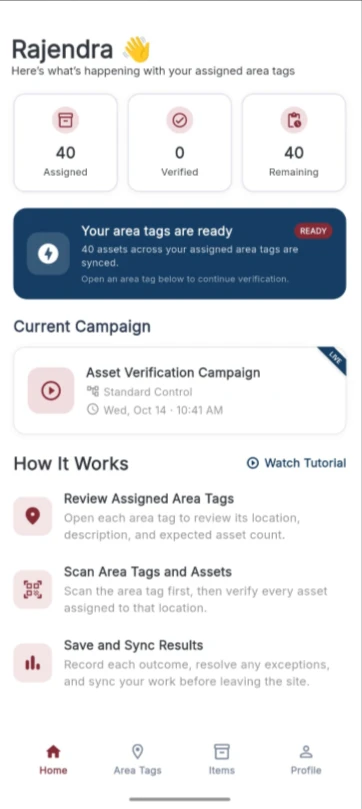
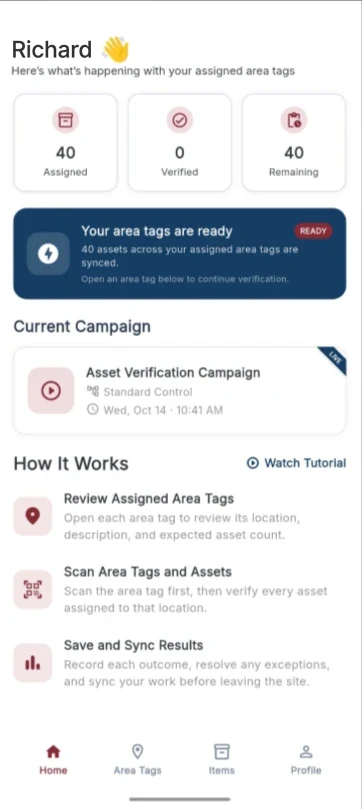
new section added

Changed region(s): [[0.0304, 0.0309, 0.4254, 0.0927]]

diff --git a/client/src/pages/HomePage.jsx b/client/src/pages/HomePage.jsx
@@ -29,6 +29,36 @@ const issues = [
   )],
 ];
 
+const blueprint = [
+  ["Enterprise Asset Register", "Centralised asset master with categories, tags, serial numbers, locations, custodians, cost centres, book values, attachments and lifecycle history.", (
+    <>
+      <ellipse cx="12" cy="5.5" rx="7.5" ry="3" />
+      <path d="M4.5 5.5v13c0 1.7 3.4 3 7.5 3s7.5-1.3 7.5-3v-13M4.5 12c0 1.7 3.4 3 7.5 3s7.5-1.3 7.5-3" />
+    </>
+  )],
+  ["Mobile Verification", "Verify assets using smartphone camera, QR, barcode, RFID-ready workflows, GPS, photos, digital signatures, condition checklists and offline sync.", (
+    <>
+      <rect x="6.5" y="2.5" width="11" height="19" rx="2" />
+      <path d="M11 18h2" />
+    </>
+  )],
+  ["Verification Events", "Plan and run structured physical verification events by location, zone, asset class, team, approval rule and audit sample requirement.", (
+    <>
+      <rect x="3.5" y="4.5" width="17" height="16" rx="2" />
+      <path d="M8 2.5v4M16 2.5v4M3.5 10h17M9 15l2 2 4-4" />
+    </>
+  )],
+  ["ERP Reconciliation", "Compare book records against physical findings to identify ghost assets, unrecorded assets, wrong locations, cost centre mismatches and disposal candidates.", (
+    <path d="M7 3.5 3.5 7 7 10.5M3.5 7h13M17 13.5l3.5 3.5-3.5 3.5M20.5 17h-13" />
+  )],
+  ["Audit Evidence Centre", "Every verification is backed by user ID, timestamp, GPS, photo evidence, scan details, approval trail and immutable activity history.", (
+    <path d="M12 3 4 6v6c0 5 3.5 8 8 9 4.5-1 8-4 8-9V6l-8-3ZM9 12l2 2 4-4" />
+  )],
+  ["AI Asset Intelligence", "Detect duplicate records, repeated missing assets, location drift, high-risk custodians, ageing assets, condition deterioration and audit gaps.", (
+    <path d="M10 3.5 11.8 8.2 16.5 10l-4.7 1.8L10 16.5l-1.8-4.7L3.5 10l4.7-1.8L10 3.5ZM18 14v6M15 17h6" />
+  )],
+];
+
 const dimensions = [
   ["Existence", "Is the recorded asset physically present?", (
     <path d="M21 8 12 3 3 8v8l9 5 9-5V8ZM3 8l9 5 9-5M12 13v8" />
@@ -258,11 +288,34 @@ function onTabKeys(event, index, count, select) {
   event.currentTarget.parentElement.children[next]?.focus();
 }
 
+function Blueprint() {
+  return (
+    <section className={`${styles.section} ${styles.tint} ${styles.blueprint}`} id="blueprint" aria-labelledby="blueprint-title">
+      <div className={site.container}>
+        <div className={styles.blueprintHead}>
+          <Badge>Platform Blueprint</Badge>
+          <Lines id="blueprint-title" lines={["A complete asset truth layer", <em key="a">between physical assets and enterprise systems.</em>]} />
+          <p className={styles.journeyIntro} data-reveal=""><Brand /> is designed to go beyond asset tracking. It connects the physical reality on the ground with ERP, finance, audit and operations.</p>
+        </div>
+        <div className={styles.blueprintGrid} data-stagger="" data-draw-icons="">
+          {blueprint.map(([title, text, icon]) => (
+            <article key={title} data-tilt="5">
+              <Icon>{icon}</Icon>
+              <h3>{title}</h3>
+              <p>{text}</p>
+            </article>
+          ))}
+        </div>
+      </div>
+    </section>
+  );
+}
+
 function Journey() {
   const [active, setActive] = useState(0);
   const stage = stages[active];
   return (
-    <section className={`${styles.section} ${styles.tint} ${styles.journey}`} id="journey" aria-labelledby="journey-title">
+    <section className={`${styles.section} ${styles.journey}`} id="journey" aria-labelledby="journey-title">
       <div className={site.container}>
         <div className={styles.heading}>
           <div>
@@ -310,7 +363,7 @@ function Controls() {
   const [active, setActive] = useState(0);
   const control = controls[active];
   return (
-    <section className={`${styles.section} ${styles.tint} ${styles.onTint} ${styles.recolor}`} id="controls" aria-labelledby="controls-title">
+    <section className={`${styles.section} ${styles.recolor}`} id="controls" aria-labelledby="controls-title">
       <div className={site.container}>
         <div className={styles.heading}>
           <div>
@@ -367,7 +420,7 @@ function Delivery() {
   const [active, setActive] = useState(0);
   const model = models[active];
   return (
-    <section className={`${styles.section} ${styles.tint} ${styles.recolor} ${styles.delivery}`} id="delivery" aria-labelledby="delivery-title">
+    <section className={`${styles.section} ${styles.recolor} ${styles.delivery}`} id="delivery" aria-labelledby="delivery-title">
       <div className={site.container}>
         <div className={styles.heading}>
           <div>
@@ -513,7 +566,7 @@ function RtLaptop() {
 
 function RealTimeControl() {
   return (
-    <section className={`${styles.section} ${styles.tint} ${styles.rtSection}`} id="control-centre" aria-labelledby="rt-title">
+    <section className={`${styles.section} ${styles.rtSection}`} id="control-centre" aria-labelledby="rt-title">
       <div className={site.container}>
         <div className={styles.rtHead} data-reveal="">
           <Lines id="rt-title" lines={["Mobile Evidence + Real-Time Control"]} />
@@ -545,7 +598,8 @@ function RealTimeControl() {
 
 // The hero alternates between its two messages; both stay stacked in one grid
 // cell so the buttons below never jump when the text changes.
-const HERO_INTERVAL = 4000;
+const HERO_INTERVAL = 5000;
+const HERO_SLIDES = 3;
 
 function HeroHeadings() {
   // -1 until the preloader lifts, so the first heading rises into view.
@@ -558,7 +612,7 @@ function HeroHeadings() {
       if (cancelled) return;
       setSlides({ active: 0, leaving: -1 });
       timer = window.setInterval(() => {
-        setSlides(({ active: current }) => ({ active: (current + 1) % 2, leaving: current }));
+        setSlides(({ active: current }) => ({ active: (current + 1) % HERO_SLIDES, leaving: current }));
       }, HERO_INTERVAL);
     });
     return () => {
@@ -583,6 +637,10 @@ function HeroHeadings() {
         <HeroLines className={styles.heroTitle} lines={["Every Asset.", "Everywhere.", <em key="a">One Clear View.</em>]} />
         <p className={`${styles.heroSubtitle} ${styles.heroFade}`}>Your Central, Customisable Source of Truth.</p>
         <p className={`${styles.heroDescription} ${styles.heroFade}`} style={{ "--delay": ".12s" }}>Bring asset tracking, automated inspections and compliance evidence together in one platform—for complete operational accountability, without chasing spreadsheets.</p>
+      </div>
+      <div className={slide(2)} aria-hidden={active !== 2}>
+        <HeroLines className={styles.heroTitle} lines={["Every asset verified.", "Every movement tracked.", <em key="a">Every record audit-ready.</em>]} />
+        <p className={`${styles.heroDescription} ${styles.heroFade}`}><Brand /> gives enterprises a mobile-first platform to verify physical assets, capture evidence, reconcile with ERP and create a trusted asset truth layer across every location.</p>
       </div>
     </div>
   );
@@ -637,8 +695,10 @@ function HomePage() {
         </div>
       </section>
 
+      <Blueprint />
+
       {/* 01: presentation visuals 02 / 02A */}
-      <section className={`${styles.section} ${styles.tint} ${styles.reality}`} id="reality" aria-labelledby="reality-title">
+      <section className={`${styles.section} ${styles.reality}`} id="reality" aria-labelledby="reality-title">
         <div className={`${site.container} ${styles.split} ${styles.copyFirst}`}>
           <Slide name="reality-gap" className={styles.gapArt} alt="An asset register alongside a workplace with a missing asset and damaged equipment">
             <div className={styles.gapLabel}><span>Book Record</span><b aria-hidden="true">≠</b><span>Physical Reality</span></div>
@@ -664,7 +724,7 @@ function HomePage() {
       </section>
 
       {/* 02: presentation visual 03 */}
-      <section className={`${styles.section} ${styles.verifies}`} id="platform" aria-labelledby="platform-title">
+      <section className={`${styles.section} ${styles.tint} ${styles.verifies}`} id="platform" aria-labelledby="platform-title">
         <div className={site.container}>
           <div className={styles.heading}>
             <div>
@@ -693,7 +753,7 @@ function HomePage() {
       <Journey />
 
       {/* 04: presentation visual 05 */}
-      <section className={`${styles.section} ${styles.mobileSection}`} id="mobile" aria-labelledby="mobile-title">
+      <section className={`${styles.section} ${styles.tint} ${styles.mobileSection}`} id="mobile" aria-labelledby="mobile-title">
         <div className={`${site.container} ${styles.split} ${styles.copyFirst}`}>
           <Slide name="mobile-verification" className={styles.mobileArt} alt="A smartphone captures the asset tag on a point of sale printer">
             <div className={styles.evidenceSlip}>
@@ -720,7 +780,7 @@ function HomePage() {
       <RealTimeControl />
 
       {/* 05: presentation visual 06 */}
-      <section className={`${styles.section} ${styles.exceptions}`} id="exceptions" aria-labelledby="exceptions-title">
+      <section className={`${styles.section} ${styles.tint} ${styles.exceptions}`} id="exceptions" aria-labelledby="exceptions-title">
         <div className={`${site.container} ${styles.split}`}>
           <div className={styles.copy}>
             <p className={styles.sectionBadge} data-reveal="">
@@ -754,7 +814,7 @@ function HomePage() {
       <Controls />
 
       {/* 07: presentation visuals 08 and 14 */}
-      <section className={`${styles.section} ${styles.recolor}`} id="reconciliation" aria-labelledby="reconciliation-title">
+      <section className={`${styles.section} ${styles.tint} ${styles.recolor}`} id="reconciliation" aria-labelledby="reconciliation-title">
         <div className={site.container}>
           <div className={styles.split}>
             <div className={styles.copy}>
@@ -796,7 +856,7 @@ function HomePage() {
       <Delivery />
 
       {/* 09: presentation visual 09 */}
-      <section className={`${styles.section} ${styles.recolor}`} id="pilot" aria-labelledby="pilot-title">
+      <section className={`${styles.section} ${styles.tint} ${styles.recolor}`} id="pilot" aria-labelledby="pilot-title">
         <div className={`${site.container} ${styles.split}`}>
           <div className={styles.copy}>
             <Badge>Focused Pilot</Badge>
@@ -814,7 +874,7 @@ function HomePage() {
       </section>
 
       {/* 10: presentation visual 10 */}
-      <section className={`${styles.section} ${styles.tint} ${styles.onTint} ${styles.recolor}`} id="demo" aria-labelledby="demo-title">
+      <section className={`${styles.section} ${styles.recolor}`} id="demo" aria-labelledby="demo-title">
         <div className={`${site.container} ${styles.split} ${styles.copyFirst}`}>
           <div className={styles.demoVisual}>
             <Slide name="demo" alt="A smartphone and laptop show the connection between a tagged physical asset and its verification record" />
@@ -831,7 +891,7 @@ function HomePage() {
         </div>
       </section>
 
-      <section className={`${styles.section} ${styles.industries}`} id="industries" aria-labelledby="industries-title">
+      <section className={`${styles.section} ${styles.tint} ${styles.industries}`} id="industries" aria-labelledby="industries-title">
         <div className={site.container}>
           <div className={styles.industriesHead}>
             <Badge>Industries We Serve</Badge>

diff --git a/client/src/pages/Home.module.css b/client/src/pages/Home.module.css
@@ -3,6 +3,9 @@
 .page {
   --ink: #182b3c;
   --tint: var(--bg-light);
+  /* Section background, and the colour that stands out against it. */
+  --surface: #fff;
+  --raised: var(--tint);
   background: #fff;
   color: var(--ink);
   line-height: 1.65;
@@ -34,7 +37,7 @@
   isolation: isolate;
   overflow: hidden;
   min-width: 0;
-  background: #fff;
+  background: var(--surface);
   aspect-ratio: 1.12;
 }
 
@@ -53,12 +56,8 @@
   content: "";
   position: absolute;
   inset: 0;
-  background: linear-gradient(90deg, #fff 0%, rgba(255, 255, 255, .82) 8%, rgba(255, 255, 255, 0) 28%);
+  background: linear-gradient(90deg, var(--surface) 0%, color-mix(in srgb, var(--surface) 82%, transparent) 8%, transparent 28%);
   pointer-events: none;
-}
-
-.onTint .slideCrop::after {
-  background: linear-gradient(90deg, var(--tint), rgba(245, 247, 249, .9) 7%, transparent 28%);
 }
 
 /* Hero */
@@ -248,8 +247,8 @@
 }
 
 /* Section scaffolding */
-.section { padding: 96px 0; background: #fff; }
-.tint { background: var(--tint); }
+.section { padding: 96px 0; background: var(--surface); }
+.tint { --surface: var(--tint); --raised: #fff; }
 
 .split {
   display: grid;
@@ -327,8 +326,8 @@
 
 .gapArt::after {
   background:
-    linear-gradient(90deg, #fff 0%, rgba(255, 255, 255, .96) 6%, transparent 30%),
-    linear-gradient(0deg, #fff 0%, transparent 13%);
+    linear-gradient(90deg, var(--surface) 0%, color-mix(in srgb, var(--surface) 96%, transparent) 6%, transparent 30%),
+    linear-gradient(0deg, var(--surface) 0%, transparent 13%);
 }
 
 .gapLabel {
@@ -367,7 +366,6 @@
 
 .verifies .dimensionList article { align-items: center; }
 
-.verifies .evidenceArt { background: #fff; }
 
 /* Verification journey on grey: intro under the heading, icons in the tabs, black text. */
 .page .journey h2,
@@ -397,8 +395,8 @@
   stroke-linejoin: round;
 }
 
-.journey .workflowTabs button[aria-selected="true"] { background: #fff; }
-.journey .workflowTabs button:hover { background: #fff; }
+.journey .workflowTabs button[aria-selected="true"] { background: var(--raised); }
+.journey .workflowTabs button:hover { background: var(--raised); }
 
 .numberedList.iconList li {
   display: flex;
@@ -424,17 +422,6 @@
 .stageIcon { width: 54px; height: 54px; }
 .stageIcon svg { width: 25px; height: 25px; }
 
-.verifies .evidenceArt::after {
-  background:
-    linear-gradient(90deg, #fff 0%, rgba(255, 255, 255, .96) 6%, transparent 26%),
-    linear-gradient(0deg, #fff 0%, transparent 12%);
-}
-
-.reality .gapArt::after {
-  background:
-    linear-gradient(90deg, var(--tint) 0%, rgba(245, 247, 249, .96) 6%, transparent 30%),
-    linear-gradient(0deg, var(--tint) 0%, transparent 13%);
-}
 
 /* Section label set in an outlined pill. */
 .sectionBadge {
@@ -474,13 +461,13 @@
 .dimensionList h3 { font-size: 22px; color: var(--primary); margin-bottom: 7px; }
 .dimensionList p { color: var(--muted); font-size: 14px; }
 
-.evidenceArt { aspect-ratio: 1.35; background: var(--tint); }
+.evidenceArt { aspect-ratio: 1.35; background: var(--surface); }
 .evidenceArt > img { width: 240%; top: -35%; }
 
 .evidenceArt::after {
   background:
-    linear-gradient(90deg, var(--tint) 0%, rgba(245, 247, 249, .96) 6%, transparent 26%),
-    linear-gradient(0deg, var(--tint) 0%, transparent 12%);
+    linear-gradient(90deg, var(--surface) 0%, color-mix(in srgb, var(--surface) 96%, transparent) 6%, transparent 26%),
+    linear-gradient(0deg, var(--surface) 0%, transparent 12%);
 }
 
 /* 03 Journey */
@@ -620,10 +607,10 @@
   color: var(--secondary);
   border-left: 3px solid var(--secondary);
   padding-left: 12px;
-  background: #fff;
+  background: var(--raised);
 }
 
-.controlTabs button:hover { background: #fff; }
+.controlTabs button:hover { background: var(--raised); }
 
 .controlPanel { padding: 28px 15px 5px; min-height: 220px; }
 .controlPanel .eyebrowSmall { margin-bottom: 11px; }
@@ -719,7 +706,7 @@
   content: "";
   position: absolute;
   inset: 0;
-  background: linear-gradient(90deg, var(--tint), transparent 28%);
+  background: linear-gradient(90deg, var(--surface), transparent 28%);
 }
 
 .page .modelTitle { font-size: 34px; color: var(--primary); letter-spacing: -.04em; line-height: 1.15; }
@@ -1136,7 +1123,6 @@
 .outputList article > .issueIcon { margin-bottom: 14px; }
 
 .delivery .deliverySelector button[aria-selected="true"] { background: #173F62; color: #fff; }
-.delivery .modelPhoto::after { background: linear-gradient(90deg, var(--tint), transparent 28%); }
 .page .delivery .modelTitle { font-size: 26px; }
 .delivery .checkList li { font-size: 13px; }
 .delivery .modelResponsibility { font-size: 13px; }
@@ -1438,6 +1424,7 @@
 
 /* Soft glare that follows the pointer on tilting cards (set by useTilt). */
 .industryGrid article::after,
+.blueprintGrid article::after,
 .recolor .outputList article::after {
   content: "";
   position: absolute;
@@ -1450,6 +1437,7 @@
 }
 
 .industryGrid article:hover::after,
+.blueprintGrid article:hover::after,
 .recolor .outputList article:hover::after { opacity: 1; }
 
 /*
@@ -1540,6 +1528,37 @@
 }
 
 /* Industries we serve: six photo cards and a brand sign-off. */
+/* Platform blueprint: six capability cards under the hero. */
+.blueprintHead { margin-bottom: 40px; }
+.page .blueprint h2 { color: #000; }
+
+.blueprintGrid { display: grid; grid-template-columns: repeat(3, 1fr); gap: 22px; }
+
+.blueprintGrid article {
+  position: relative;
+  overflow: hidden;
+  padding: 26px 24px 28px;
+  border: 1px solid var(--line);
+  border-radius: 14px;
+  background: #fff;
+  box-shadow: 0 10px 26px rgba(23, 63, 98, .06);
+  transform: perspective(900px) rotateX(var(--tilt-x, 0deg)) rotateY(var(--tilt-y, 0deg)) translateY(var(--lift, 0px));
+  transition: transform .5s var(--ease-out), box-shadow .4s, border-color .4s;
+}
+
+.blueprintGrid article:hover { --lift: -4px; border-color: #e3c6cb; box-shadow: 0 20px 40px rgba(23, 63, 98, .12); }
+.page .blueprintGrid h3 { margin-top: 20px; font-size: 19px; color: #000; letter-spacing: -.02em; }
+.blueprintGrid p { margin-top: 10px; font-size: 13.5px; line-height: 1.75; color: var(--muted); }
+
+@media (max-width: 1000px) {
+  .blueprintGrid { grid-template-columns: repeat(2, 1fr); }
+}
+
+@media (max-width: 760px) {
+  .blueprintGrid { grid-template-columns: 1fr; gap: 16px; }
+  .blueprintGrid article { padding: 22px 20px 24px; }
+}
+
 .industriesHead { margin-bottom: 40px; }
 .page .industriesHead h2 { color: #000; }
 
